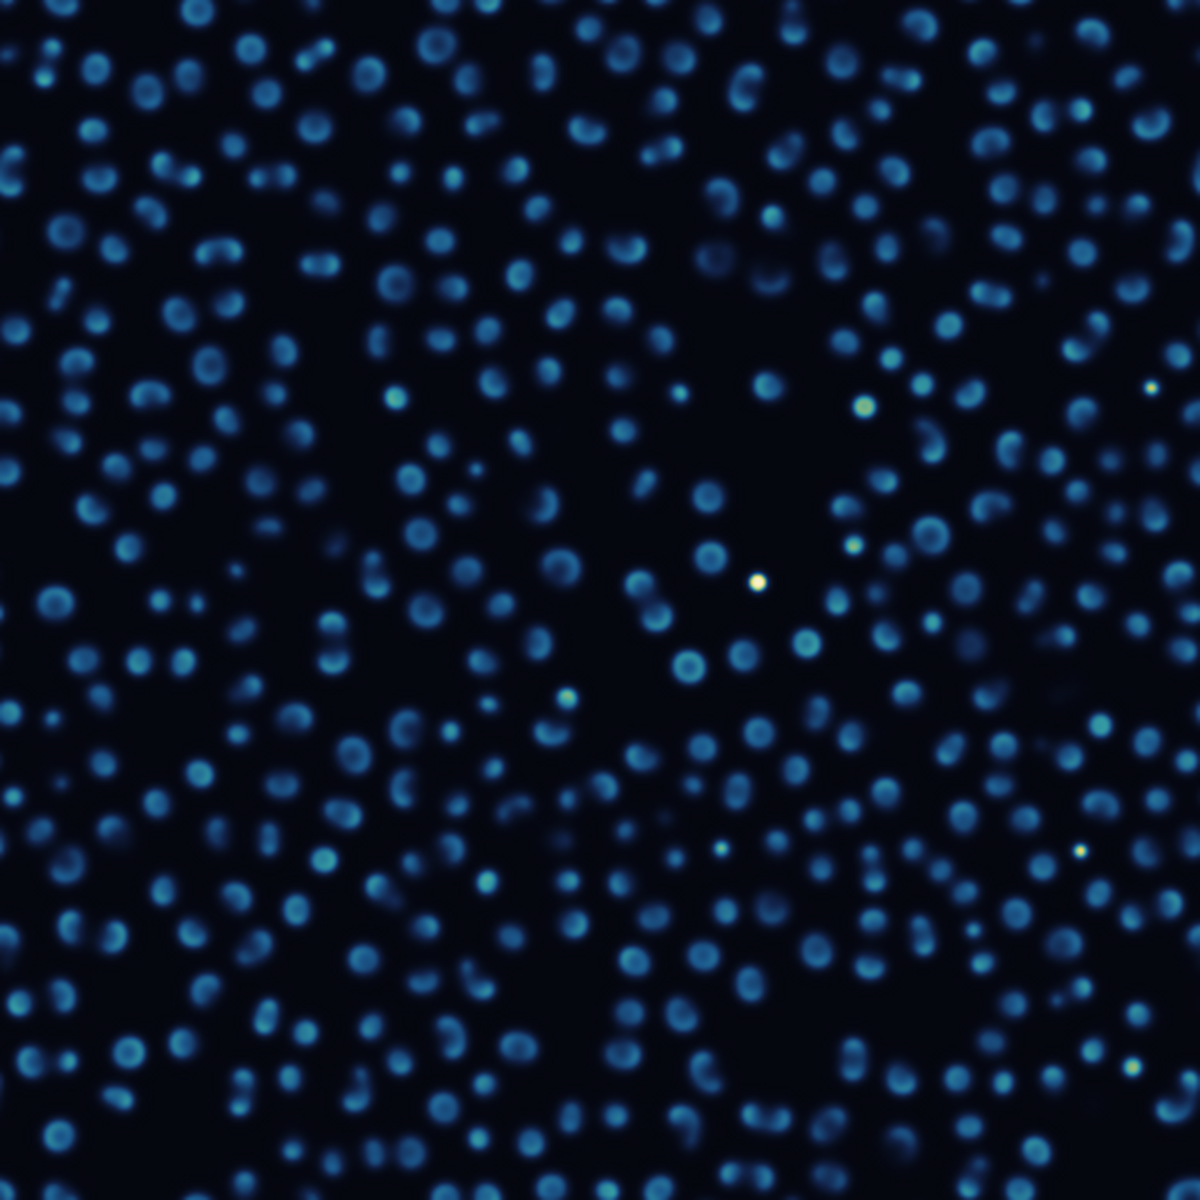
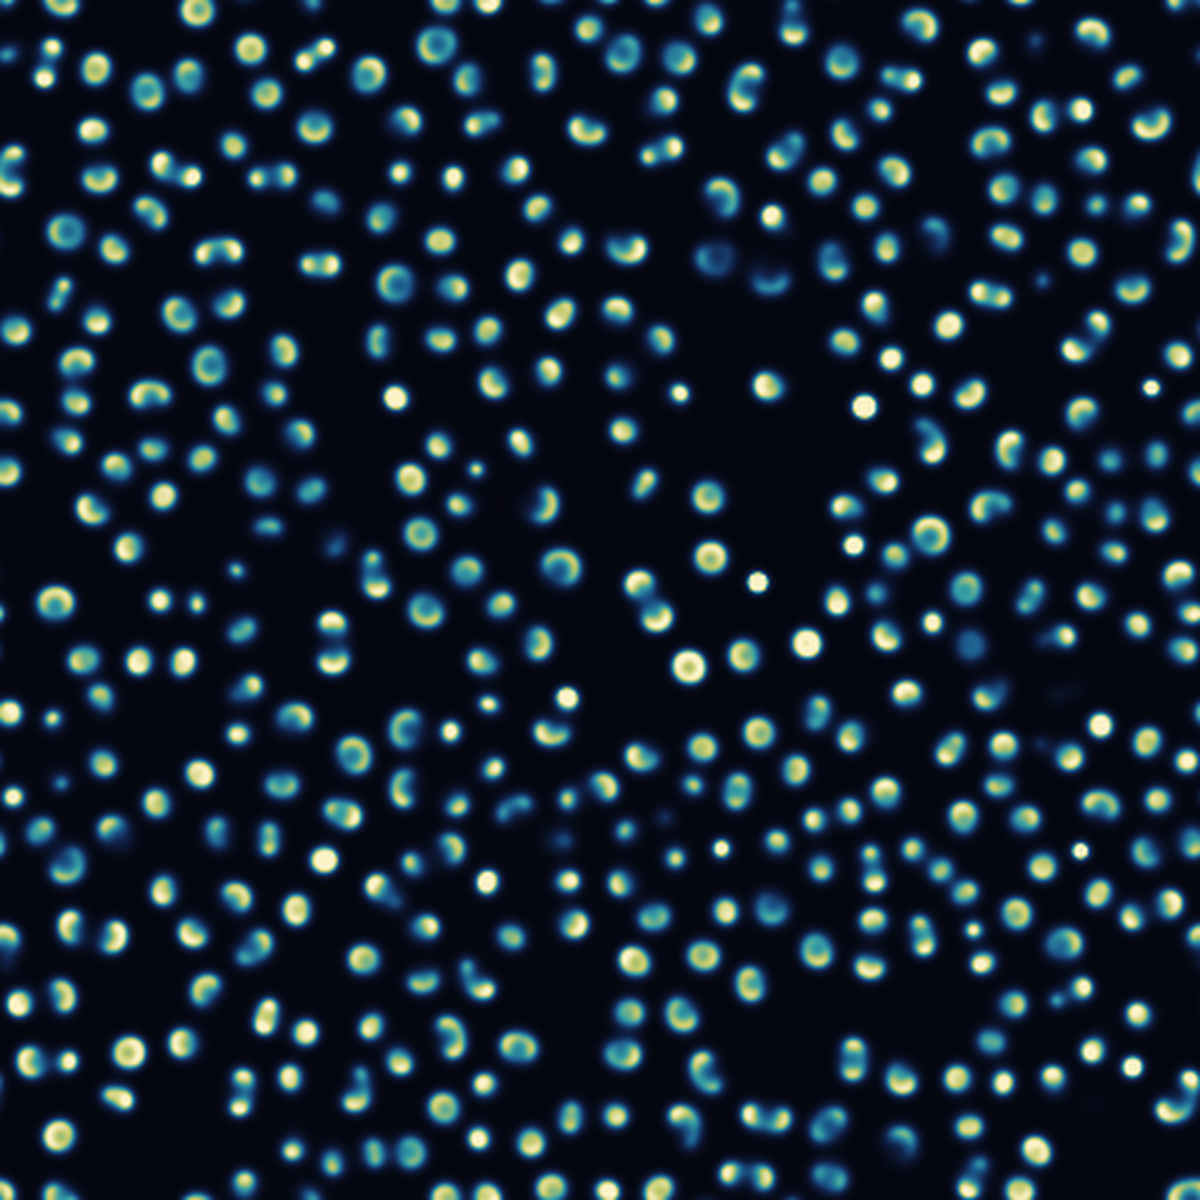
figures

diff --git a/scripts/render_simulations.py b/scripts/render_simulations.py
@@ -58,6 +58,7 @@ class Regime:
     k: float
     steps: int
     blurb: str
+    init: str = "patches"  # "patches" or "front"; see seed_fields
 
 
 # (F, k) per regime, verified alive at Du/Dv = 0.16/0.08 with dt = 1. The
@@ -69,7 +70,8 @@ REGIMES: tuple[Regime, ...] = (
     Regime("bubbles", 0.012, 0.050, 24000, "Rounded cells that inflate and crowd."),
     Regime("maze", 0.029, 0.057, 24000, "Labyrinthine corridors, frozen once formed."),
     Regime("worms", 0.054, 0.063, 20000, "Elongating filaments that branch and merge."),
-    Regime("spirals", 0.018, 0.051, 28000, "Rotating waves -- the one true oscillator."),
+    Regime("spirals", 0.016, 0.049, 26000, "Curling wave tips -- the one true oscillator.",
+           init="front"),
     Regime("spots", 0.030, 0.062, 20000, "Discrete spots that divide and fill space."),
 )
 
@@ -96,14 +98,29 @@ def laplacian(a: np.ndarray) -> np.ndarray:
     )
 
 
-def seed_fields(size: int, rng: np.random.Generator) -> tuple[np.ndarray, np.ndarray]:
-    """u saturated, v empty, perturbed by a handful of random square patches.
+def seed_fields(
+    size: int, rng: np.random.Generator, mode: str = "patches"
+) -> tuple[np.ndarray, np.ndarray]:
+    """Initial condition. u saturated, v seeded, symmetry broken by noise.
 
-    Symmetry has to be broken for spirals and gliders to emerge at all, so the
-    patches get a small amount of additive noise on top of the step.
+    ``patches`` scatters square blobs and suits the pattern-forming regimes,
+    which reach the same attractor from almost any seed.
+
+    ``front`` lays down a stripe of v with its right half cut away. The
+    resulting free wave end is what curls into a spiral tip -- scattered blobs
+    never produce one, because a spiral needs an unterminated front to wrap
+    around. This is the only regime whose appearance depends on the seed.
     """
     u = np.ones((size, size), dtype=np.float64)
     v = np.zeros((size, size), dtype=np.float64)
+
+    if mode == "front":
+        mid = size // 2
+        half = max(4, size // 40)
+        u[mid - half : mid + half, :mid] = 0.25
+        v[mid - half : mid + half, :mid] = 0.50
+        u += 0.01 * rng.standard_normal((size, size))
+        return np.clip(u, 0.0, 1.0), np.clip(v, 0.0, 1.0)
 
     n_patches = max(4, size // 32)
     patch = max(4, size // 24)
@@ -134,7 +151,7 @@ def simulate(
     """
     steps = regime.steps if steps is None else steps
     rng = np.random.default_rng(seed)
-    u, v = seed_fields(size, rng)
+    u, v = seed_fields(size, rng, mode=regime.init)
 
     # Capture on a square-root schedule: pattern formation is fast early and
     # nearly static late, so uniform sampling wastes most of the frames.
@@ -182,6 +199,17 @@ def make_cmap() -> mcolors.LinearSegmentedColormap:
 CMAP = make_cmap()
 
 
+def levels(data: np.ndarray, lo_pct: float = 1.0, hi_pct: float = 99.5) -> tuple[float, float]:
+    """Contrast limits from percentiles rather than min/max.
+
+    Several regimes put almost all of the domain at v ~ 0 and reach their
+    maximum on a handful of pixels, so a min/max stretch renders them nearly
+    black. Clipping the tails is what makes gliders and spirals legible.
+    """
+    lo, hi = np.percentile(data, [lo_pct, hi_pct])
+    return float(lo), float(hi)
+
+
 def normalise(frame: np.ndarray, lo: float, hi: float) -> np.ndarray:
     if hi - lo < 1e-9:
         return np.zeros_like(frame)
@@ -193,7 +221,7 @@ def to_rgb(frame: np.ndarray, lo: float, hi: float) -> np.ndarray:
 
 
 def save_still(frames: np.ndarray, regime: Regime, out: Path) -> None:
-    lo, hi = float(frames[-1].min()), float(frames[-1].max())
+    lo, hi = levels(frames[-1])
     rgb = to_rgb(frames[-1], lo, hi)
     fig, ax = plt.subplots(figsize=(6, 6), dpi=200)
     ax.imshow(rgb, interpolation="lanczos")
@@ -206,8 +234,7 @@ def save_still(frames: np.ndarray, regime: Regime, out: Path) -> None:
 def save_strip(frames: np.ndarray, times: np.ndarray, regime: Regime, out: Path) -> None:
     """Filmstrip: five frames spanning formation, shared colour scale."""
     picks = np.linspace(0, len(frames) - 1, 5).astype(int)
-    lo = float(frames[picks].min())
-    hi = float(frames[picks].max())
+    lo, hi = levels(frames[picks])
 
     fig, axes = plt.subplots(1, 5, figsize=(15, 3.35), dpi=170)
     fig.patch.set_facecolor("#0b0d14")
@@ -226,22 +253,26 @@ def save_strip(frames: np.ndarray, times: np.ndarray, regime: Regime, out: Path)
     plt.close(fig)
 
 
-def save_gif(frames: np.ndarray, out: Path, size: int = 320, fps: int = 12) -> None:
-    """Looping animation. Falls back silently if Pillow is unavailable."""
+def save_gif(frames: np.ndarray, out: Path, size: int = 260, fps: int = 12,
+             colors: int = 64) -> None:
+    """Looping animation. Falls back silently if Pillow is unavailable.
+
+    Kept deliberately small: six of these ship together, and a colormapped
+    field quantises to 64 colours with no visible loss.
+    """
     try:
         from PIL import Image
     except ImportError:  # pragma: no cover - optional dependency
         print(f"  (skipped {out.name}: Pillow not installed)")
         return
 
-    lo = float(frames[len(frames) // 3 :].min())
-    hi = float(frames[len(frames) // 3 :].max())
+    lo, hi = levels(frames[len(frames) // 3 :])
     images = []
     for frame in frames:
         img = Image.fromarray(to_rgb(frame, lo, hi))
         if img.size[0] != size:
             img = img.resize((size, size), Image.LANCZOS)
-        images.append(img.convert("P", palette=Image.ADAPTIVE, colors=128))
+        images.append(img.convert("P", palette=Image.ADAPTIVE, colors=colors))
 
     # Hold the final pattern before looping, otherwise the reset reads as a glitch.
     images[0].save(
@@ -260,7 +291,7 @@ def save_atlas(finals: dict[str, np.ndarray], out: Path) -> None:
     fig.patch.set_facecolor("#0b0d14")
     for ax, regime in zip(axes.ravel(), REGIMES):
         frame = finals[regime.name]
-        lo, hi = float(frame.min()), float(frame.max())
+        lo, hi = levels(frame)
         ax.imshow(to_rgb(frame, lo, hi), interpolation="lanczos")
         ax.set_axis_off()
         ax.set_title(regime.name, color="#e8edf5", fontsize=15, pad=9)
@@ -288,6 +319,27 @@ def save_atlas(finals: dict[str, np.ndarray], out: Path) -> None:
 # --------------------------------------------------------------------------
 # Entry point
 # --------------------------------------------------------------------------
+
+
+def optimise_pngs(out_dir: Path) -> None:
+    """Palette-quantise the written PNGs in place.
+
+    These are colormapped scalar fields, so they carry far fewer than 256
+    distinct colours to begin with; quantising is visually free and cuts the
+    directory by roughly 4x. Six regimes of un-optimised 200-dpi PNG is 40 MB,
+    which is not a thing to put in a git repository.
+    """
+    try:
+        from PIL import Image
+    except ImportError:  # pragma: no cover - optional dependency
+        return
+
+    before = sum(p.stat().st_size for p in out_dir.glob("*.png"))
+    for path in sorted(out_dir.glob("*.png")):
+        img = Image.open(path).convert("RGB")
+        img.convert("P", palette=Image.ADAPTIVE, colors=256).save(path, optimize=True)
+    after = sum(p.stat().st_size for p in out_dir.glob("*.png"))
+    print(f"optimised PNGs: {before / 1e6:.1f} MB -> {after / 1e6:.1f} MB")
 
 
 def main() -> None:
@@ -330,7 +382,8 @@ def main() -> None:
     if len(finals) == len(REGIMES):
         save_atlas(finals, args.out_dir / "gs_atlas.png")
 
-    print(f"\nwrote {len(list(args.out_dir.glob('*')))} files to {args.out_dir}")
+    optimise_pngs(args.out_dir)
+    print(f"wrote {len(list(args.out_dir.glob('*')))} files to {args.out_dir}")
 
 
 if __name__ == "__main__":
